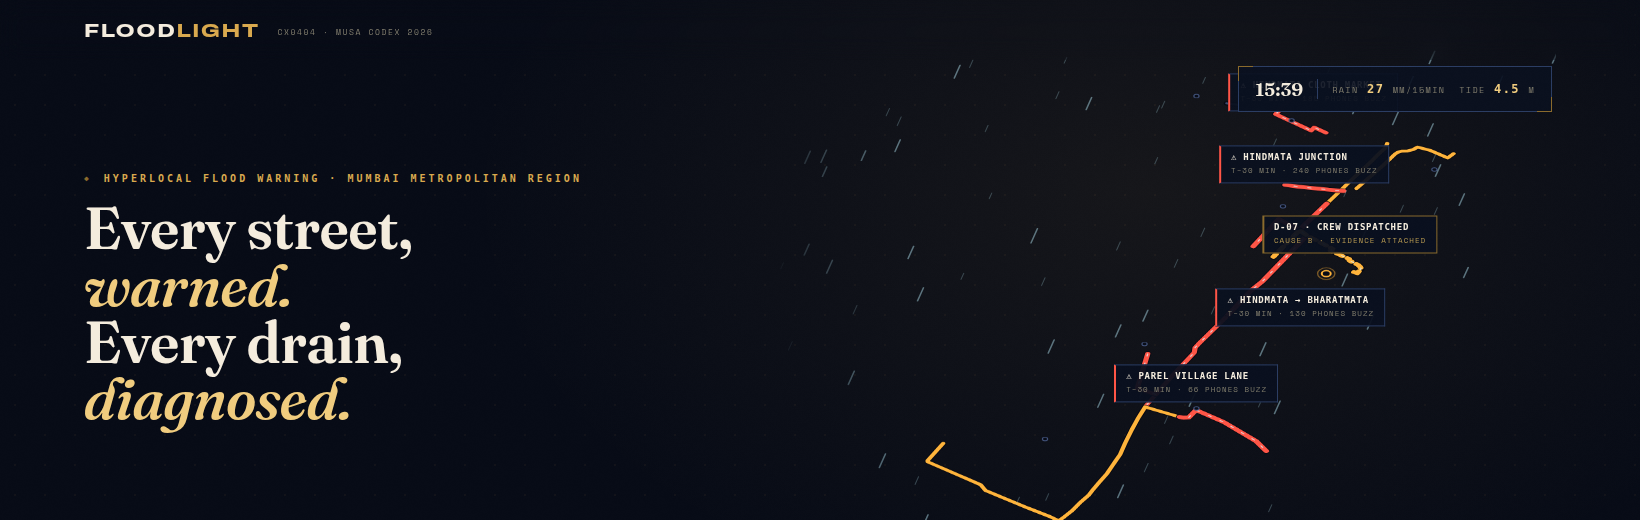
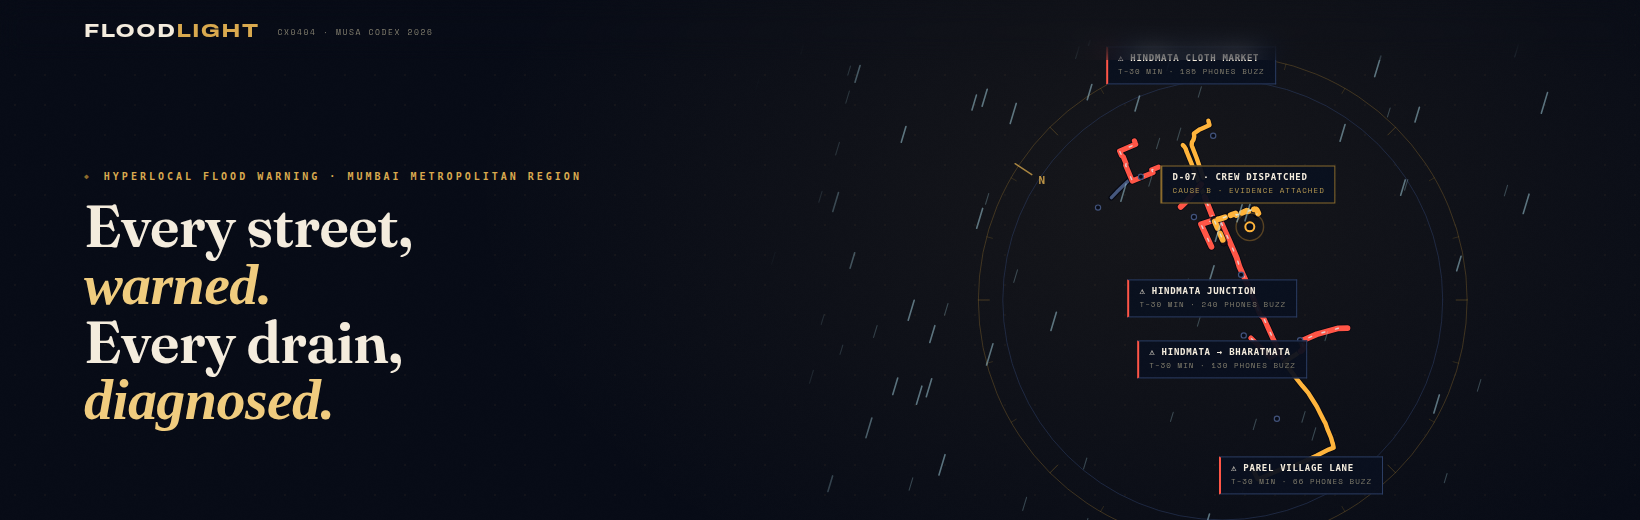
polish(hero): the ward sits in a brass bezel, laid diagonally on wide screens
The tall N-S corridor was a thin noodle lost in dark space on wide
viewports. The projection now rotates-then-fits on landscape stages
(~57°, upright on laptops and portrait), seats the ward inside a faint
brass instrument bezel — concentric rings, tick marks, and a north
tick that leans exactly as far as the map was rotated, so the rotation
is declared, not hidden. Calm streets read a step brighter, chips
dodge wider, and the banner/og are re-cut from the new composition.

Claude-Session: https://claude.ai/code/session_01NCAyqExnhYcrByms5d1zCM

diff --git a/floodlight/static/landing.js b/floodlight/static/landing.js
@@ -52,7 +52,7 @@ const REDUCED = matchMedia("(prefers-reduced-motion: reduce)").matches;
 
 /* ------------------------------------------------------ hero ward sim */
 
-const COL = { ok: "#3c4c6e", watch: "#ffb43b", alert: "#ff5546", blocked: "#ffb43b" };
+const COL = { ok: "#45577d", watch: "#ffb43b", alert: "#ff5546", blocked: "#ffb43b" };
 const CASING = "#040711";
 const BLOCKED_ID = "parel-tank-rd";
 const WINDOW_S = 2.35;      // real seconds per 15-min storm window
@@ -68,6 +68,12 @@ const sim = {
   running: true,
 };
 
+// On a wide stage the N–S corridor is a thin vertical noodle lost in dark
+// space — so lay it DIAGONALLY (rotate, then fit) and seat it in a faint
+// brass instrument bezel. The north tick on the bezel shows the rotation
+// honestly; the geometry itself stays real.
+const HERO_ROT = -0.99;                       // ~-57°, landscape stages only
+
 function project(features, drains, W, H) {
   let latMin = 90, latMax = -90, lngMin = 180, lngMax = -180;
   const eat = (lat, lng) => {
@@ -77,15 +83,64 @@ function project(features, drains, W, H) {
   for (const f of features) for (const [lng, lat] of f.geometry.coordinates) eat(lat, lng);
   for (const d of drains) eat(d.lat, d.lng);
   const kx = Math.cos(((latMin + latMax) / 2) * Math.PI / 180);
-  const spanX = (lngMax - lngMin) * kx, spanY = latMax - latMin;
-  const pad = 0.06 * Math.min(W, H) + 12;
-  const s = Math.min((W - 2 * pad) / spanX, (H - 2 * pad) / spanY);
-  // bias right of centre — the stage's left edge fades under the headline
-  const ox = (W - spanX * s) / 2 + W * 0.045, oy = (H - spanY * s) / 2;
-  return (lat, lng) => [
-    ox + ((lng - lngMin) * kx) * s,
-    oy + (latMax - lat) * s,
-  ];
+  const rot = W / H >= 1.05 ? HERO_ROT : 0;
+  const cosR = Math.cos(rot), sinR = Math.sin(rot);
+  const raw = (lat, lng) => {
+    const x = (lng - lngMin) * kx, y = (latMax - lat);
+    return [x * cosR - y * sinR, x * sinR + y * cosR];
+  };
+  // bbox of the rotated shape
+  let xMin = 1e9, xMax = -1e9, yMin = 1e9, yMax = -1e9;
+  const eat2 = ([x, y]) => {
+    xMin = Math.min(xMin, x); xMax = Math.max(xMax, x);
+    yMin = Math.min(yMin, y); yMax = Math.max(yMax, y);
+  };
+  for (const f of features) for (const [lng, lat] of f.geometry.coordinates) eat2(raw(lat, lng));
+  for (const d of drains) eat2(raw(d.lat, d.lng));
+  const mx = (xMin + xMax) / 2, my = (yMin + yMax) / 2;
+  // seat the ward inside the bezel: centre right-of-middle (the stage's
+  // left edge fades under the headline), ring sized to the free space
+  const cx = rot ? W * 0.585 : W * 0.5, cy = H * 0.5;
+  const ringR = Math.min(cx, W - cx, cy, H - cy) * 0.94;
+  const s = (ringR - 26) / (0.5 * Math.hypot(xMax - xMin, yMax - yMin));
+  sim.bezel = { cx, cy, r: ringR, north: -Math.PI / 2 + rot };
+  return (lat, lng) => {
+    const [x, y] = raw(lat, lng);
+    return [cx + (x - mx) * s, cy + (y - my) * s];
+  };
+}
+
+function drawBezel(ctx) {
+  const b = sim.bezel;
+  if (!b) return;
+  ctx.save();
+  ctx.lineWidth = 1;
+  ctx.strokeStyle = "rgba(138, 106, 44, 0.4)";               // outer, brass
+  ctx.beginPath(); ctx.arc(b.cx, b.cy, b.r, 0, 2 * Math.PI); ctx.stroke();
+  ctx.strokeStyle = "rgba(43, 61, 99, 0.55)";                // inner, hairline
+  ctx.beginPath(); ctx.arc(b.cx, b.cy, b.r * 0.9, 0, 2 * Math.PI); ctx.stroke();
+  for (let i = 0; i < 24; i++) {                             // tick marks
+    const a = (i * Math.PI) / 12;
+    const major = i % 3 === 0;
+    const r1 = b.r - (major ? 11 : 6);
+    ctx.strokeStyle = `rgba(138, 106, 44, ${major ? 0.45 : 0.28})`;
+    ctx.beginPath();
+    ctx.moveTo(b.cx + Math.cos(a) * r1, b.cy + Math.sin(a) * r1);
+    ctx.lineTo(b.cx + Math.cos(a) * b.r, b.cy + Math.sin(a) * b.r);
+    ctx.stroke();
+  }
+  // honest north: the tick leans exactly as far as the map was rotated
+  ctx.strokeStyle = "rgba(217, 169, 78, 0.75)";
+  ctx.lineWidth = 1.5;
+  ctx.beginPath();
+  ctx.moveTo(b.cx + Math.cos(b.north) * (b.r - 16), b.cy + Math.sin(b.north) * (b.r - 16));
+  ctx.lineTo(b.cx + Math.cos(b.north) * (b.r + 4), b.cy + Math.sin(b.north) * (b.r + 4));
+  ctx.stroke();
+  ctx.fillStyle = "rgba(217, 169, 78, 0.85)";
+  ctx.font = '700 11px "Space Mono", monospace';
+  ctx.textAlign = "center"; ctx.textBaseline = "middle";
+  ctx.fillText("N", b.cx + Math.cos(b.north) * (b.r - 28), b.cy + Math.sin(b.north) * (b.r - 28));
+  ctx.restore();
 }
 
 function buildSim(data) {
@@ -175,7 +230,7 @@ function dropChip(seg, tone, main, small) {
     let dmin = 1e9;
     for (const s of chipSpots) dmin = Math.min(dmin, Math.hypot(c[0] - s[0], cy - s[1]));
     if (dmin > bestScore) { bestScore = dmin; best = c; }
-    if (dmin > 96) { best = c; break; }
+    if (dmin > 120) { best = c; break; }
   }
   const cy = best[2] === "up" ? best[1] - 30 : best[1] + 30;
   chipSpots.push([best[0], cy]);
@@ -190,6 +245,7 @@ function drawFrame(fade) {
   const { ctx, W, H } = sim;
   ctx.clearRect(0, 0, W, H);
   const now = performance.now();
+  drawBezel(ctx);
 
   // streets: casing under, state colour over, marching dashes where water flows
   for (const s of sim.segs) {
@@ -208,7 +264,7 @@ function drawFrame(fade) {
     path();
     ctx.globalAlpha = fade;
     ctx.strokeStyle = s.state === "ok" ? COL.ok : col;
-    ctx.lineWidth = (s.state === "ok" ? 2.6 : 3.6) + swell;
+    ctx.lineWidth = (s.state === "ok" ? 2.9 : 3.6) + swell;
     if (s.state === "blocked") { ctx.setLineDash([7, 6]); ctx.lineDashOffset = -(now / 55) % 26; }
     else ctx.setLineDash([]);
     ctx.stroke();
